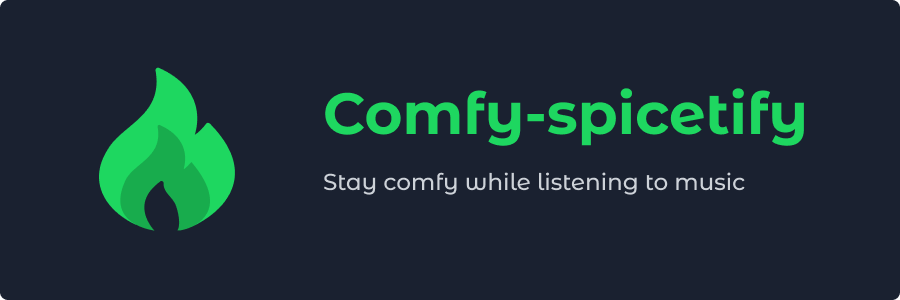
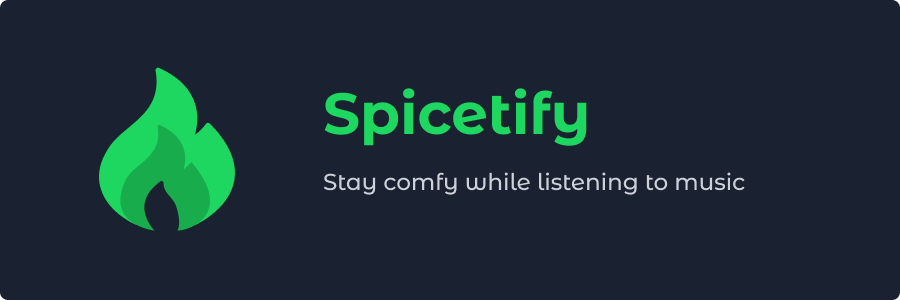
Switching to the org

Changed region(s): [[0.3422, 0.3, 0.9022, 0.51]]

diff --git a/README.md b/README.md
@@ -1,42 +1,62 @@
-![Banner](https://nyri4.github.io/Comfy-spicetify/assets/banner.png)
+![Banner](https://comfy-themes.github.io/Spicetify/assets/banner.png)
 
 ---
 
-![Preview](https://nyri4.github.io/Comfy-spicetify/assets/preview.png)
+![Preview](https://comfy-themes.github.io/Spicetify/assets/preview.png)
 
 ### 📥 Installation
 
 ---
 
-#### Automatic Install - macOS and Linux Only
-
-This will install the theme and accompanying extension automatically.
-
-In **Bash**
-
-```bash
-curl -fsSL https://raw.githubusercontent.com/NYRI4/Comfy-spicetify/main/install.sh | sh
-```
-
-#### Manual Install
-
 Go into your `Themes` folder in `.spicetify` then do :
 
 ```sh
-git clone https://github.com/NYRI4/Comfy-spicetify
+git clone https://github.com/Comfy-Themes/Spicetify
 ```
 
-Run:
+Rename the folder to Comfy
 
-```sh
-spicetify config current_theme Comfy-spicetify
+#### Windows
+
+In **Powershell**:
+
+```powershell
+spicetify config current_theme Comfy
 spicetify config inject_css 1 replace_colors 1 overwrite_assets 1
 spicetify apply
 ```
 
-If you want to have the image header on a playlist, move the `Comfy.js` file to the `Extensions` folder and run:
+#### macOS and Linux
 
-```sh
+In **Bash**:
+
+```bash
+spicetify config current_theme Comfy
+spicetify config inject_css 1 replace_colors 1 overwrite_assets 1
+spicetify apply
+```
+
+If you want to have the image header on a playlist, move the `Comfy.js` file to the `Extensions` folder and do :
+
+#### Windows
+
+In **Powershell**:
+
+```powershell
+cd "$(spicetify -c | Split-Path)\Themes\Comfy"
+Copy-Item Comfy.js ..\..\Extensions
+spicetify config extensions Comfy.js
+spicetify apply
+```
+
+#### macOS and Linux
+
+In **Bash**:
+
+```bash
+cd "$(dirname "$(spicetify -c)")/Themes/Comfy"
+mkdir -p ../../Extensions
+cp Comfy.js ../../Extensions/.
 spicetify config extensions Comfy.js
 spicetify apply
 ```
@@ -45,16 +65,16 @@ spicetify apply
 
 ---
 
-The theme part is now updating itself for users using the version of Spicetify equals or greater than `2.8.2`, however, for the extension part if you have issues with it :
+The theme part is now updating itself for users using the version of Spicetify equals or greater than `2.8.2`, however, for the extesnion part if you have issues with it :
 
-1. Go [here](https://nyri4.github.io/Comfy-spicetify/Comfy.js)
+1. Go [here](https://comfy-themes.github.io/Spicetify/Comfy.js)
 2. Copy the whole code (sorry for the flashbang)
 3. Go into the Spicetify extension folder
 4. Open the `Comfy.js` file, paste the code and **save it**
 5. Afterwards, in a terminal, run `spicetify apply`
 6. Enjoy !
 
-For the users that don't want to update Spicetify to the newest version, do the same with [this](https://nyri4.github.io/Comfy-spicetify/Comfy.js) and paste it in the `user.css` replacing the `@import`.
+For the users that don't want to update Spicetify to the newest version, do the same with [this](https://comfy-themes.github.io/Spicetify/Comfy.js) and paste it in the `user.css` replacing the `@import`.
 
 ### 🖌 Customization
 
@@ -68,6 +88,6 @@ Go into your theme folder and open either :
 
 ## 🖼 More preview
 
-| Home | Friend list
-| :---------: | :---------:
-| ![Preview](https://nyri4.github.io/Comfy-spicetify/assets/home.png)  | ![Preview](https://nyri4.github.io/Comfy-spicetify/assets/friend-list.png)
+|                                 Home                                 |                                 Friend list                                 |
+| :------------------------------------------------------------------: | :-------------------------------------------------------------------------: |
+| ![Preview](https://comfy-themes.github.io/Spicetify/assets/home.png) | ![Preview](https://comfy-themes.github.io/Spicetify/assets/friend-list.png) |
